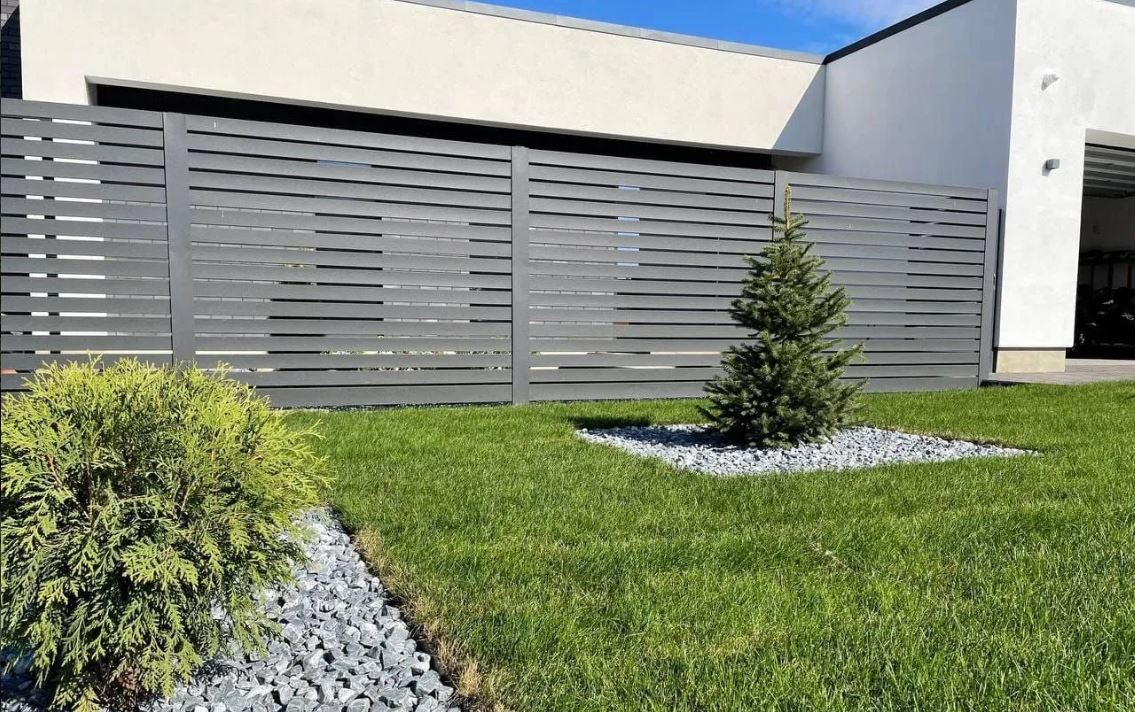
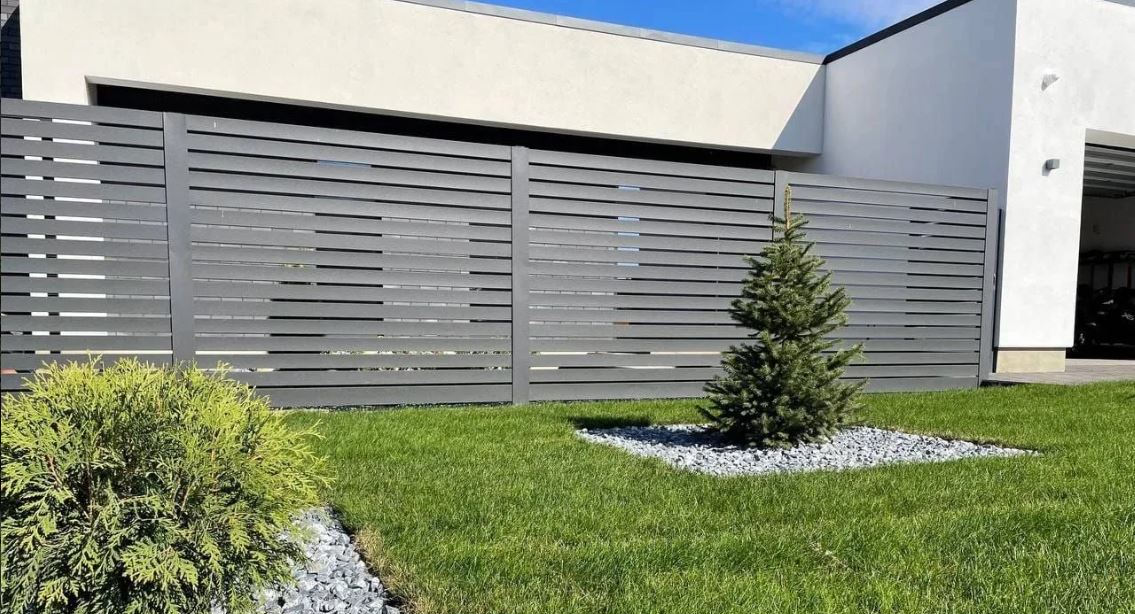
fix background

diff --git a/app/fences/accessories/caps/page.tsx b/app/fences/accessories/caps/page.tsx
@@ -316,7 +316,7 @@ export default function CapsPage() {
   return (
     <DevelopmentPage
       title="Колпаки на столбы ZKING"
-      description="Защитные и декоративные колпаки, создают законченный вид забора, решения с подсветкой, премиально выделят вашу территорию, в тёмное время суток"
+      description="Защитные и декоративные колпаки, создают законченный вид забора, решения с подсветкой, премиально выделят вашу территорию, в тёмное время суток."
       imageSrc="/images/fences/caps.png"
       imageAlt="Колпаки ZKING"
     >
